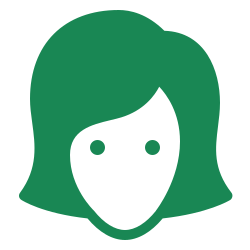
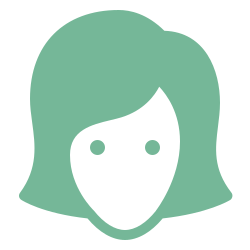
customize bootstrap theme

diff --git a/src/main.js b/src/main.js
@@ -4,10 +4,11 @@ import { createPinia } from "pinia";
 import App from "./App.vue";
 import router from "./router";
 
-import "./assets/main.css";
 import { FontAwesomeIcon } from "@fortawesome/vue-fontawesome";
 import { library } from "@fortawesome/fontawesome-svg-core";
 import { faMarker, faTrashCan, faCartPlus, faPaperPlane, faCheck, faUser, faXmark, faFloppyDisk} from  "@fortawesome/free-solid-svg-icons";
+
+import "./assets/scss/main.scss";
 
 const app = createApp(App);
 

diff --git a/src/assets/scss/main.scss b/src/assets/scss/main.scss
@@ -1,0 +1,22 @@
+@import './bootstrap';
+
+.partner-img {
+  width: 50px;
+  position: relative;
+  bottom: 2px
+}
+
+.partner-name {
+  margin-left: 8px;
+  &_disable {
+    color: #dee2e6;
+  }
+
+  &_success {
+    color: white;
+    padding: 8px 16px;
+    border: 1px solid $success;
+    background-color: $success;
+    border-radius: 6px;
+  }
+}

diff --git a/src/components/List.vue b/src/components/List.vue
@@ -118,7 +118,7 @@
             <div class="modal-footer">
               <button
                   type="button"
-                  class="btn btn-outline-danger"
+                  class="btn btn-secondary"
                   data-bs-dismiss="modal"
               >
                 <font-awesome-icon :icon="['fas', 'xmark']" class="me-2"/>Nein

diff --git a/src/assets/scss/bootstrap.scss b/src/assets/scss/bootstrap.scss
@@ -1,0 +1,23 @@
+$primary: #59359a;
+$secondary: #fd9843;
+$success: #75b798;
+$info: #9ec5fe;
+$warning: #ffda6a;
+$danger: #e35d6a;
+$light: #c5b3e6;
+$dark: #2c1a4d;
+$gray-light: gray;
+
+@import "../node_modules/bootstrap/scss/bootstrap";
+
+.btn-success {
+  color: #FFFF;
+}
+
+.alert-warning {
+  background-color: $warning;
+}
+
+
+
+

diff --git a/src/components/common/Navbar.vue b/src/components/common/Navbar.vue
@@ -1,5 +1,5 @@
 <template>
-  <nav class="navbar navbar-expand-lg bg-light mb-5">
+  <nav class="navbar navbar-expand-lg bg-primary mb-5">
     <div class="container-fluid">
       <router-link class="navbar-brand" to="/">Logo</router-link>
       <button

diff --git a/src/App.vue b/src/App.vue
@@ -9,6 +9,3 @@ import Navbar from "@/components/common/Navbar.vue";
 
 const isLogged = true;
 </script>
-<style lang="scss">
-@import "~bootstrap/scss/bootstrap";
-</style>
